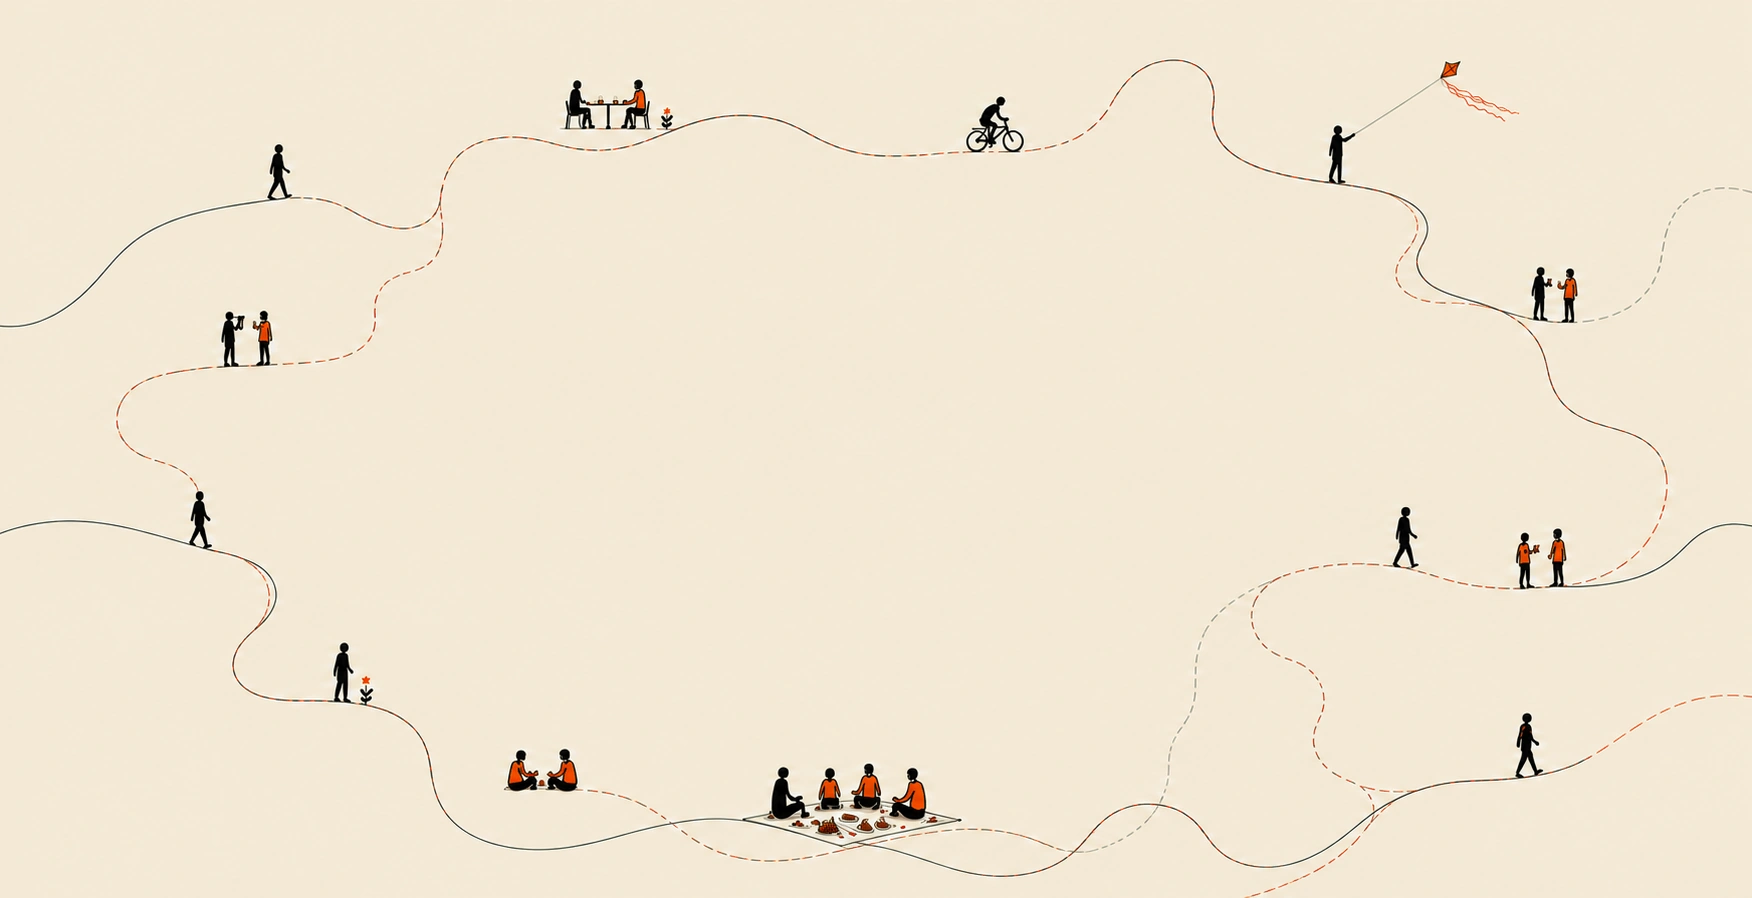
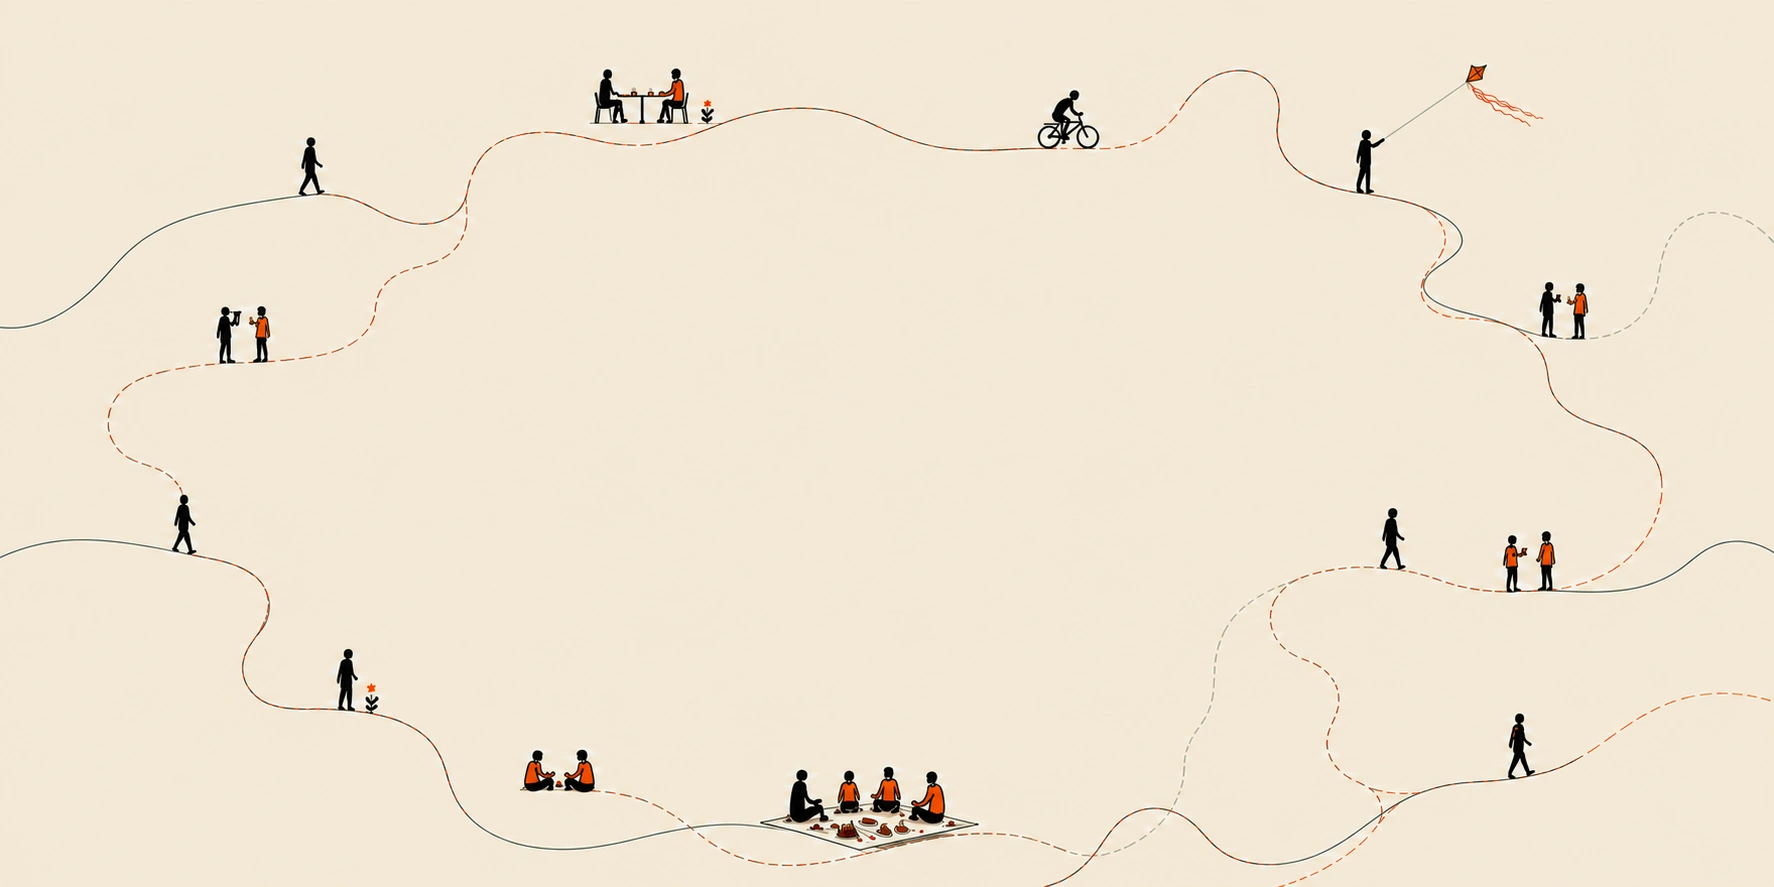
w

diff --git a/app/globals.css b/app/globals.css
@@ -503,13 +503,6 @@ body {
      box, the wrapper's centre is also the visual centre. No correction
      term, and the nav is deliberately NOT subtracted: the copy is centred
      on the screen, not on the area beneath the header. */
-  /* 50svh centres the wrapper BOX. The headline carries line-height 1.06
-     on a ~7vw font, so a band of empty leading sits above the cap height
-     and belongs to the box but shows as nothing — which puts the visible
-     text lower than the box. Measured off a 1440x1456 render: viewport
-     centre ~728, ink centre ~790, so the ink sat ~60px low. Pulling the
-     wrapper up 30px lands the letters on the optical centre.
-
   /* This positions the wrapper BOX, which holds the headline, a 46px gap
      and the subline beneath it. Centring that box hangs the headline
      high, because the headline is only the top third of it — that is
@@ -670,32 +663,30 @@ body {
   background-position: center;
 }
 
-/* The artwork runs up UNDER the header rather than starting below it.
-   The shell now ends at the fold, so `inset: 0` alone would shrink the
-   picture to the area under the header and letterbox it; pulling the top
-   back up by --hero-shift and holding the height at the measured window
-   height makes
-   the artwork cover exactly the visible screen instead — top edge at the
-   top of the window, bottom edge at the bottom, nothing cropped either
-   end. The nav-veil gradient already keeps the logo and links legible
-   over it, which is what it was built for. No-op when --hero-shift is 0. */
+/* The artwork sits just BELOW the header, not underneath it. Its top edge
+   is parked on the header's bottom edge and its height is the window minus
+   that header, so the picture spans exactly the band between the header
+   and the fold — the top of the illustration is fully visible and none of
+   it is hidden behind the nav.
+
+   --hero-shift is measured in HeroBackdrop.tsx: the difference between
+   where this element actually painted and where it belongs, read back off
+   the rendered box rather than inferred from the layout. It is signed, so
+   the same rule corrects a box that starts too high or too low.
+
+   --hero-art-nudge is the manual knob, 0 by default. It exists so the art
+   can be trimmed by eye without disturbing the measurement: raise it to
+   lift the picture, use a negative value to drop it. */
 @media (min-width: 768px) {
   .hero-backdrop {
-    /* --hero-shift is measured in HeroBackdrop.tsx: it is however far
-       down the window this element actually painted, read back off the
-       rendered box rather than inferred from the layout. Pulling up by
-       it lands the artwork's top edge on the top of the window.
-
-       --hero-art-nudge is the manual knob. It is 0 by default and only
-       exists so the art can be trimmed by eye without touching the
-       measurement: raise it to lift the picture further, lower it (a
-       negative value) to drop it. */
     top: calc(-1 * (var(--hero-shift, 0px) + var(--hero-art-nudge, 0px)));
     bottom: auto;
-    /* The real window height, measured. `100svh` can disagree with what
-       is actually on screen, and any disagreement comes straight off the
-       bottom edge of the picture. */
-    height: var(--hero-vis-h, 100svh);
+    /* Measured window height minus measured header height. `100svh` can
+       disagree with what is actually on screen, and any disagreement
+       comes straight off the bottom edge of the picture. */
+    height: calc(
+      var(--hero-vis-h, 100svh) - var(--hero-nav-h, var(--nav-h, 80px))
+    );
   }
 }
 

diff --git a/components/HeroBackdrop.tsx b/components/HeroBackdrop.tsx
@@ -36,9 +36,13 @@ export default function HeroBackdrop() {
      against what it actually controls.
 
        --hero-shift     the backdrop's own painted offset. Read back off
-                        the rendered box and cancelled, so the artwork's
-                        top edge lands on the top of the window and it
-                        runs up under the header.
+                        the rendered box and corrected, so the artwork's
+                        top edge lands exactly on the bottom of the
+                        header — the picture starts just below it, with
+                        nothing hidden underneath.
+       --hero-nav-h     the header's measured height, which is both the
+                        artwork's top edge and how much shorter than the
+                        window the artwork is.
        --hero-flow-top  where the section starts in the document. Drives
                         the section's height so it ends at the fold.
        --hero-copy-fix  whatever it takes to land the HEADLINE'S INK on
@@ -106,11 +110,22 @@ export default function HeroBackdrop() {
         `${Math.max(0, Math.round(shell.getBoundingClientRect().top + window.scrollY))}px`,
       );
 
-      // Artwork: drive its painted top edge to the top of the window.
+      // The header's real height, measured. The artwork's top edge is
+      // parked on it so the picture starts immediately BELOW the header
+      // rather than running up underneath it — nothing at the top of the
+      // illustration is hidden.
+      const header = document.querySelector<HTMLElement>("header");
+      const navH = header?.offsetHeight ?? 80;
+      shell.style.setProperty("--hero-nav-h", `${Math.round(navH)}px`);
+
+      // Artwork: drive its painted top edge onto the bottom of the
+      // header. `shift` is signed — it pulls up when the picture sits too
+      // low and pushes down when it sits too high — so this converges
+      // whatever the starting offset happens to be.
       for (let i = 0; i < 3; i++) {
-        const docTop = el.getBoundingClientRect().top + window.scrollY;
-        if (Math.abs(docTop) < 0.5) break;
-        shift += docTop;
+        const err = el.getBoundingClientRect().top + window.scrollY - navH;
+        if (Math.abs(err) < 0.5) break;
+        shift += err;
         shell.style.setProperty("--hero-shift", `${Math.round(shift)}px`);
       }
 
